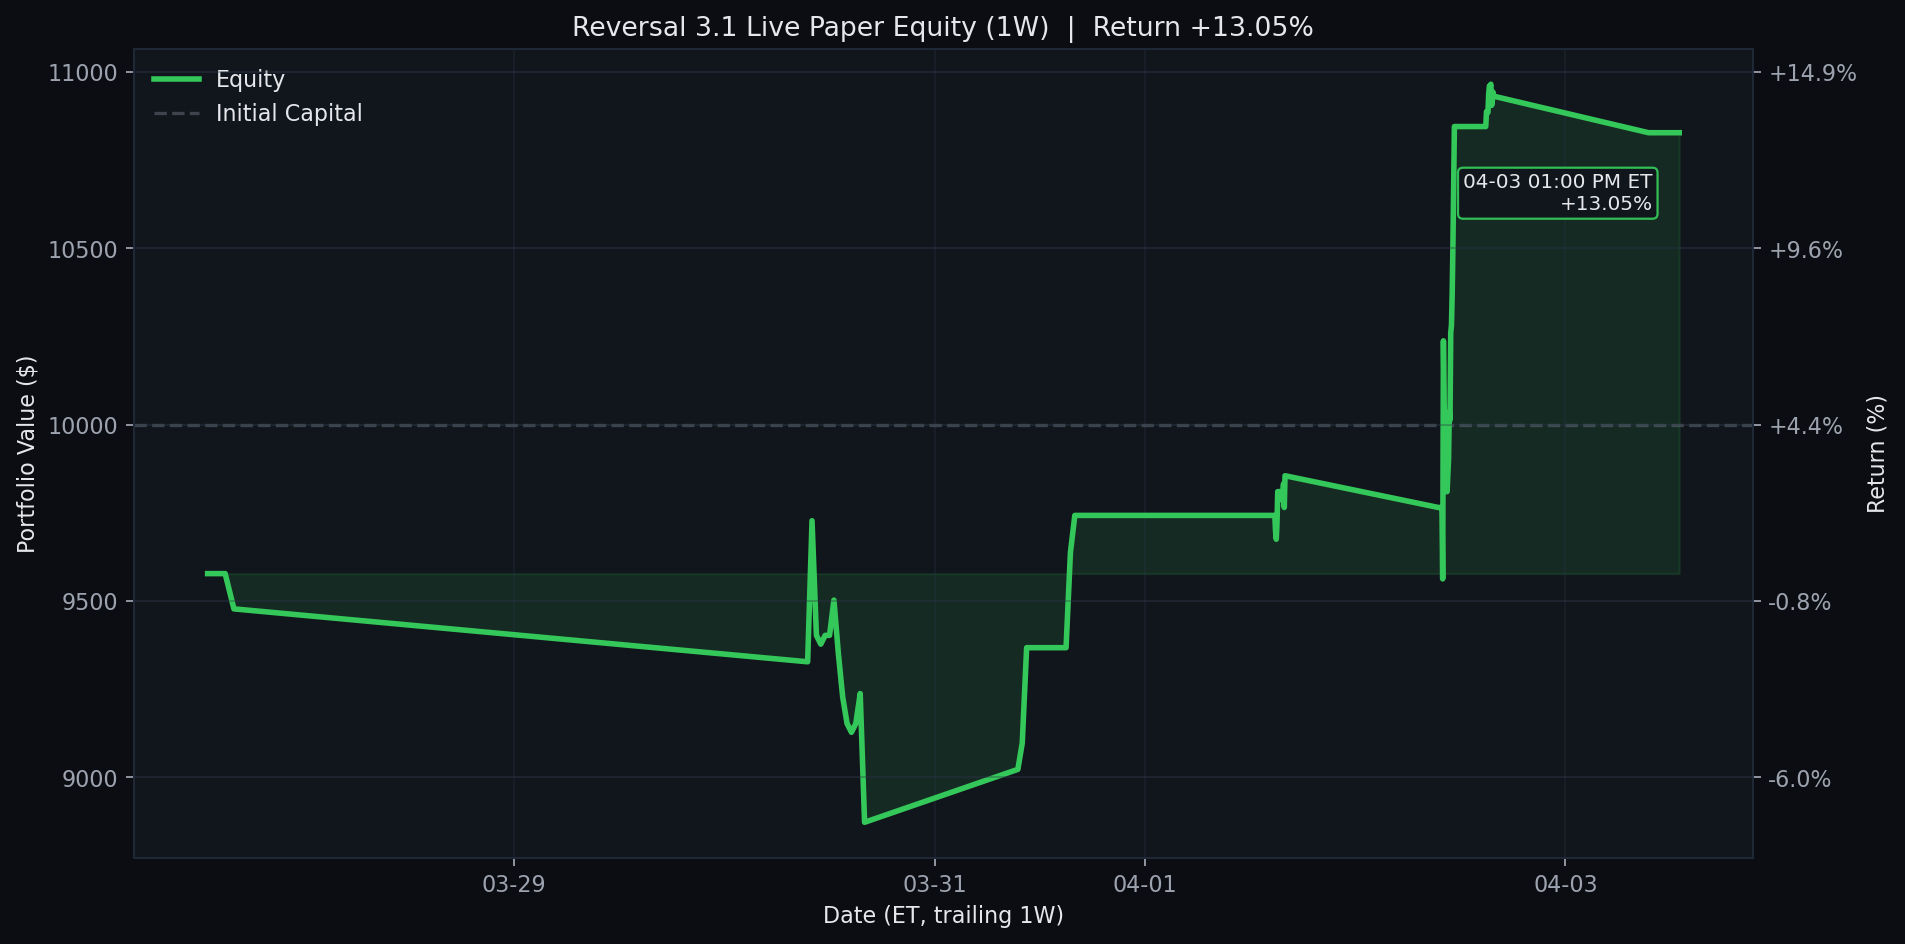
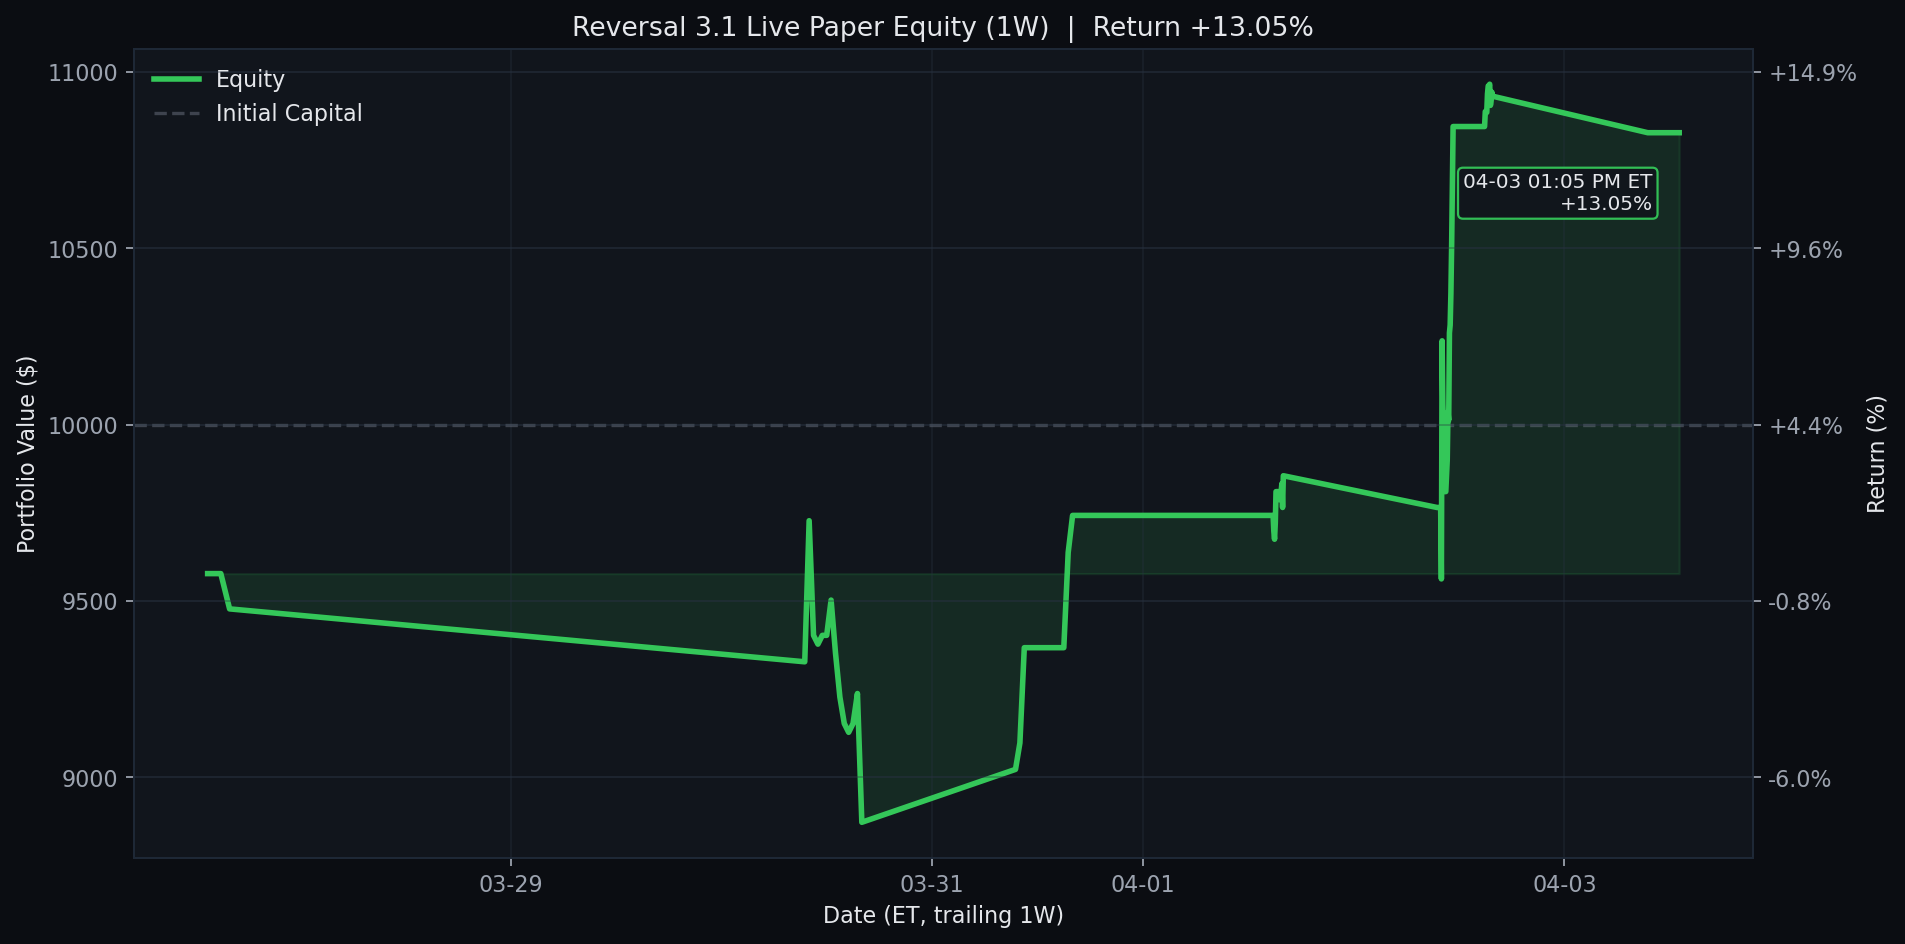
Update Reversal 3.1 live paper test 2026-04-03 13:05 ET

diff --git a/results/reversal_3_1_live/README.md b/results/reversal_3_1_live/README.md
@@ -1,6 +1,6 @@
 # Reversal 3.1 Live Paper Test
 
-Last updated (ET): `2026-04-03 13:00:05 EDT`
+Last updated (ET): `2026-04-03 13:05:00 EDT`
 Last processed slot: `manage_1300`
 
 ## Active Configuration
@@ -58,6 +58,7 @@ ticker  success_rate_%  matched_signals  current_drop_%  target_rebound_$  targe
 
 ```text
                     timestamp_et        slot   event_type                          detail
+2026-04-03T13:05:00.931996-04:00 manage_1300 slot_skipped {"reason": "already_processed"}
 2026-04-03T13:00:05.885153-04:00 manage_1300 slot_skipped {"reason": "already_processed"}
 2026-04-03T12:55:05.892105-04:00 manage_1300 slot_skipped {"reason": "already_processed"}
 2026-04-03T12:40:05.879350-04:00 manage_1230 slot_skipped {"reason": "already_processed"}
@@ -67,7 +68,6 @@ ticker  success_rate_%  matched_signals  current_drop_%  target_rebound_$  targe
 2026-04-03T12:10:05.930387-04:00 manage_1200 slot_skipped {"reason": "already_processed"}
 2026-04-03T12:05:05.892529-04:00 manage_1200 slot_skipped {"reason": "already_processed"}
 2026-04-03T12:00:01.905238-04:00 manage_1200 slot_skipped {"reason": "already_processed"}
-2026-04-03T11:55:05.888604-04:00 manage_1200 slot_skipped {"reason": "already_processed"}
 ```
 
 ## Equity Curves

diff --git a/README.md b/README.md
@@ -3,7 +3,7 @@
 <!-- reversal-3.1-live:start -->
 ## Reversal 3.1 Live Paper Test
 
-- Last updated (ET): `2026-04-03 13:00:05 EDT`
+- Last updated (ET): `2026-04-03 13:05:00 EDT`
 - Equity: `$10,827.50` | Realized: `$845.00` | Unrealized: `$-17.50` | Open positions: `1`
 - Today closed trades: `0`
 - Current slot: `manage_1300`
